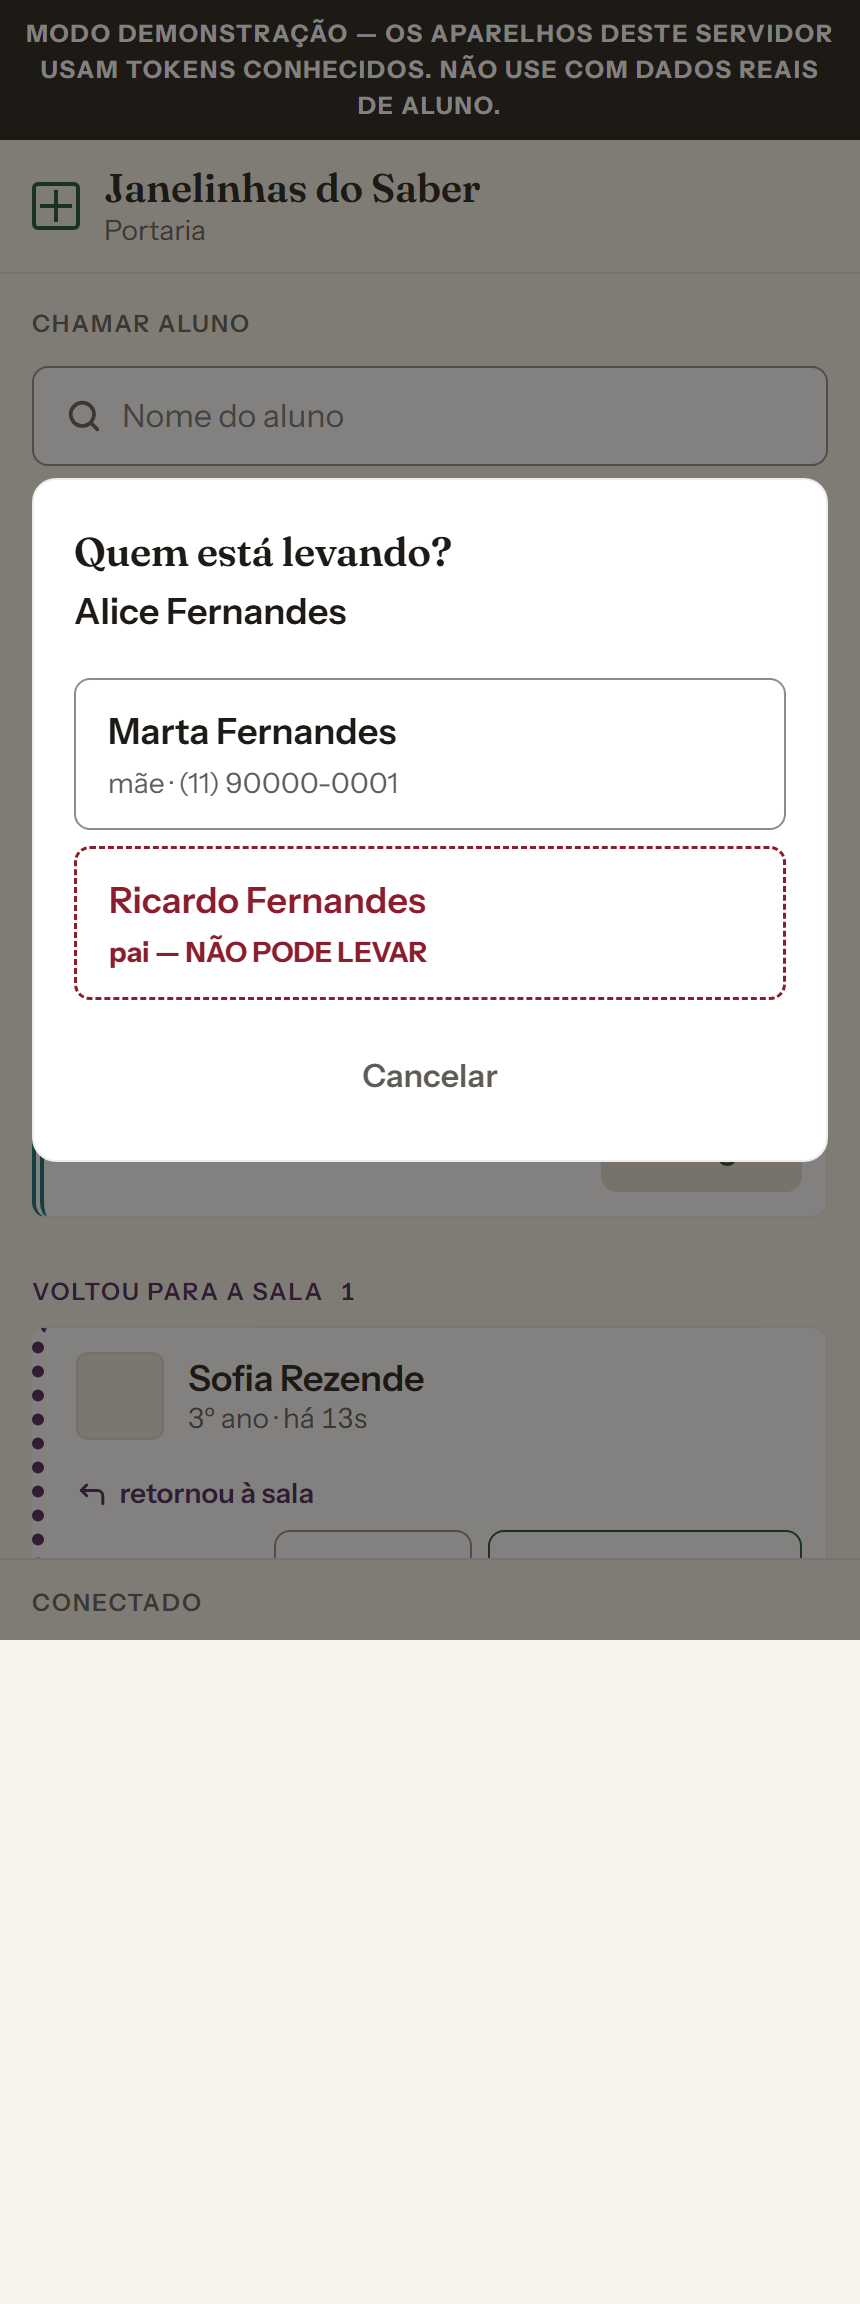
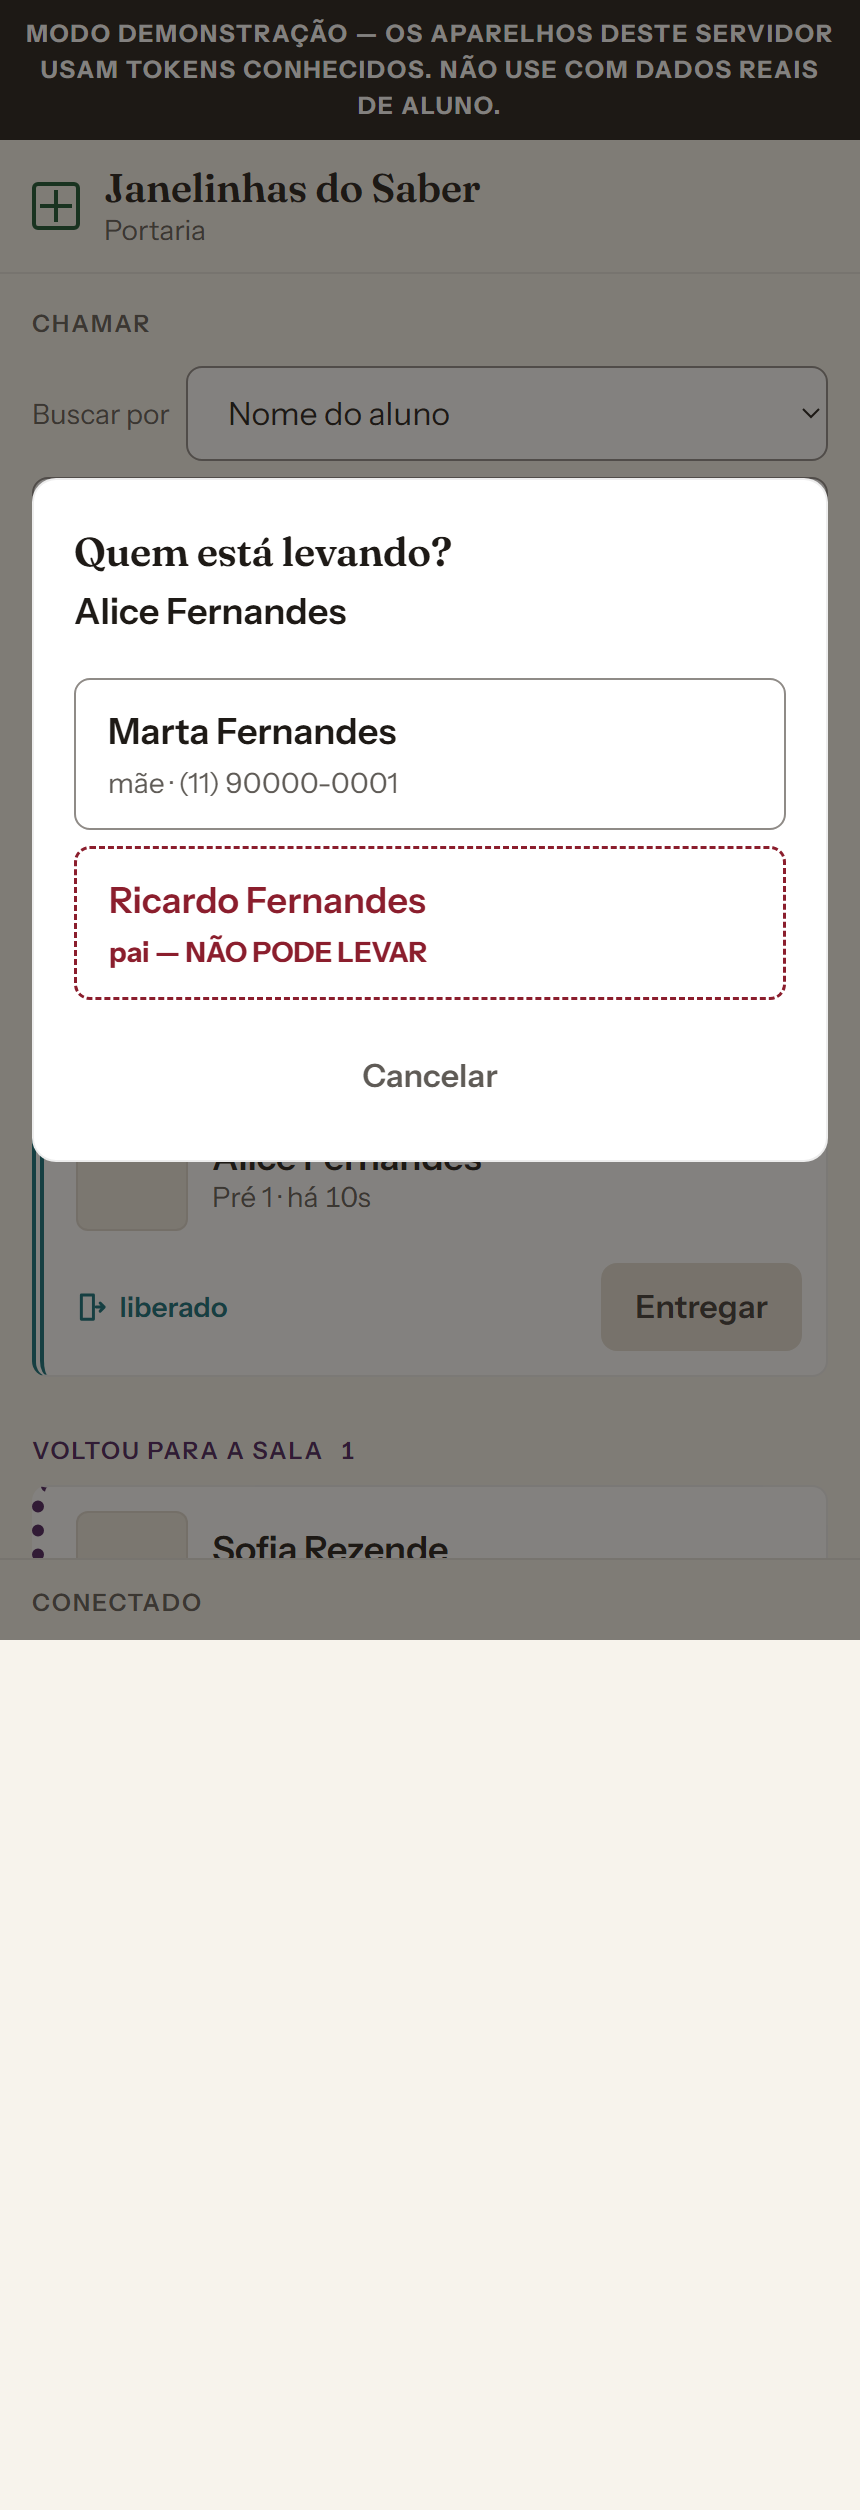
Retrato maior, e o cartao para de sobrar embaixo
O retrato era fixo em 112px: 33% do cartao no celular, 9% no notebook —
sumia justamente onde havia espaco de sobra. Agora cresce com a tela
(clamp), e a coluna de leitura acompanha em vez de ficar presa a 720px.

Medido, do retrato do painel: 390px -> 179, 768 -> 169, 1024 -> 200,
1280 -> 205, 1920 -> 264. Na linha da portaria, 44 -> 96.

E o cartao da sala tinha 117px de vazio SOB a foto contra 21 acima: a foto
ocupava so a primeira linha do grid, e a coluna da direita criava outra. O
retrato passa a atravessar as duas — cartao de 343px para 247px, folga
simetrica. `grid-row: 1 / -1` exige linhas EXPLICITAS; sem elas o span
degenera em silencio, e foi o que aconteceu na primeira tentativa.

Seis portoes verdes: 256 puros, 114 no workerd, typecheck limpo,
responsivo 45/45, telas, fim-a-fim, peso 85,4 de 120 KB.

Changed region(s): [[0.0, 0.0, 1.0, 0.7188], [0.907, 0.3438, 0.9372, 0.375], [0.0605, 0.3438, 0.0907, 0.375]]

diff --git a/web/comum/tokens.css b/web/comum/tokens.css
@@ -172,9 +172,20 @@
   /* 44px é o nível AAA (WCAG 2.5.5). Vale para TODO controle, não só botão. */
   --toque-min: 44px;
 
-  /* Retrato reservado e vazio. Mesma caixa que recebe a foto de matrícula. */
-  --retrato-linha: 44px;
-  --retrato-painel: 112px;
+  /*
+    Retrato reservado e vazio. Mesma caixa que recebe a foto de matrícula.
+
+    CRESCE COM A TELA, e por medida: fixo em 112px ele ocupava 33% do cartão no
+    celular e 9% no notebook — sumia justamente onde havia espaço de sobra, e o
+    rosto é o que a professora reconhece de longe, do fundo da sala.
+
+    `clamp` com piso e teto: o piso protege o celular (a foto não pode empurrar
+    o nome para fora), o teto impede que num projetor de 1920 a foto vire um
+    pôster e empurre a lista para baixo da dobra. Entre os dois, a foto
+    acompanha a largura sem nenhum ponto de quebra para manter.
+  */
+  --retrato-linha: clamp(56px, 5.5vw, 96px);
+  --retrato-painel: clamp(132px, 16vw, 264px);
 
   /* ---------- movimento ---------- */
 
@@ -584,6 +595,24 @@ summary {
 .painel .cartao .etiqueta { font-size: var(--t-estado-painel); }
 .painel .cartao > button { min-height: 56px; font-size: var(--t-nome); width: 100%; }
 
+/*
+  O retrato atravessa as tres linhas do grid.
+
+  Medido: o cartao tem 343px de altura (etiqueta + botao + "voltou para a
+  sala" empilhados na coluna 3) e o retrato so ocupava a linha 1. Sobrava um
+  vazio de 117px SOB a foto e 21px acima — desequilibrio visivel, e a foto
+  parecia colada no topo mesmo com align-items: center.
+*/
+@media (min-width: 901px) {
+  /*
+    As duas linhas precisam ser EXPLICITAS. Sem `grid-template-rows`, o grid
+    e todo implicito e `-1` resolve para a linha 1 — o span degenera e a foto
+    volta a ocupar so a primeira linha, silenciosamente.
+  */
+  .painel .cartao { grid-template-rows: auto auto; }
+  .painel .cartao .foto { grid-row: 1 / -1; align-self: center; }
+}
+
 /* Em painel estreito (tablet em pé) a coluna da direita desce para baixo do nome. */
 @media (max-width: 900px) {
   .painel .cartao { grid-template-columns: var(--retrato-painel) minmax(0, 1fr); }
@@ -595,14 +624,32 @@ summary {
 }
 
 /*
-  Em celular (320–480px) a coluna do nome ao lado do retrato de 112px fica com
-  menos de 100px: "Magalhães" em 44px mede 227px e vazava a página inteira.
-  Aqui o retrato sobe e o nome ocupa a largura toda. É mecanismo de caber, não
-  escolha de estilo — o tamanho volta ao do painel assim que houver espaço.
+  Em celular (320–480px) a coluna do nome ao lado do retrato fica com menos de
+  100px: "Magalhães" em 44px mede 227px e vazava a página inteira. Aqui o
+  retrato sobe e o nome ocupa a largura toda.
+
+  E, empilhado, o retrato PODE ser grande: sem ninguém ao lado disputando
+  largura, ele ocupa quase metade da tela do celular — é a foto que a
+  professora olha primeiro, e no celular ela está a um palmo do rosto.
 */
 @media (max-width: 480px) {
   .painel .cartao { grid-template-columns: minmax(0, 1fr); }
   .painel .cartao .nome { font-size: 2.25rem; }
+  .painel .cartao .foto {
+    width: min(46vw, 240px);
+    height: min(46vw, 240px);
+  }
+}
+
+/*
+  Tablet em pé e deitado (481–1100px) é o aparelho da sala no dia a dia. Aqui o
+  retrato ganha o tamanho que a tela permite sem espremer o nome ao lado.
+*/
+@media (min-width: 481px) and (max-width: 1100px) {
+  .painel .cartao .foto {
+    width: clamp(132px, 22vw, 200px);
+    height: clamp(132px, 22vw, 200px);
+  }
 }
 
 /* ---------- motivo do retorno (sala) ---------- */
@@ -846,7 +893,20 @@ button:focus-visible {
 
 /* ---------- estrutura ---------- */
 
-.conteudo { padding: var(--e-4); max-width: 560px; margin: 0 auto; }
+/*
+  A coluna da portaria acompanha a tela, com teto.
+
+  Eram 560px fixos: num notebook de 1280 sobrava metade da tela vazia, e num
+  projetor de 1920, dois terços. O teto existe porque linha de texto larga
+  demais cansa de ler — 860px é o limite confortável para nome e etiqueta —, e
+  o piso é a própria largura do celular.
+*/
+.conteudo {
+  padding: var(--e-4);
+  width: 100%;
+  max-width: clamp(560px, 68vw, 860px);
+  margin: 0 auto;
+}
 
 .secao {
   margin: var(--e-8) 0 var(--e-3);

diff --git a/web/demo-offline.html b/web/demo-offline.html
@@ -179,9 +179,20 @@
   /* 44px é o nível AAA (WCAG 2.5.5). Vale para TODO controle, não só botão. */
   --toque-min: 44px;
 
-  /* Retrato reservado e vazio. Mesma caixa que recebe a foto de matrícula. */
-  --retrato-linha: 44px;
-  --retrato-painel: 112px;
+  /*
+    Retrato reservado e vazio. Mesma caixa que recebe a foto de matrícula.
+
+    CRESCE COM A TELA, e por medida: fixo em 112px ele ocupava 33% do cartão no
+    celular e 9% no notebook — sumia justamente onde havia espaço de sobra, e o
+    rosto é o que a professora reconhece de longe, do fundo da sala.
+
+    `clamp` com piso e teto: o piso protege o celular (a foto não pode empurrar
+    o nome para fora), o teto impede que num projetor de 1920 a foto vire um
+    pôster e empurre a lista para baixo da dobra. Entre os dois, a foto
+    acompanha a largura sem nenhum ponto de quebra para manter.
+  */
+  --retrato-linha: clamp(56px, 5.5vw, 96px);
+  --retrato-painel: clamp(132px, 16vw, 264px);
 
   /* ---------- movimento ---------- */
 
@@ -591,6 +602,24 @@ summary {
 .painel .cartao .etiqueta { font-size: var(--t-estado-painel); }
 .painel .cartao > button { min-height: 56px; font-size: var(--t-nome); width: 100%; }
 
+/*
+  O retrato atravessa as tres linhas do grid.
+
+  Medido: o cartao tem 343px de altura (etiqueta + botao + "voltou para a
+  sala" empilhados na coluna 3) e o retrato so ocupava a linha 1. Sobrava um
+  vazio de 117px SOB a foto e 21px acima — desequilibrio visivel, e a foto
+  parecia colada no topo mesmo com align-items: center.
+*/
+@media (min-width: 901px) {
+  /*
+    As duas linhas precisam ser EXPLICITAS. Sem `grid-template-rows`, o grid
+    e todo implicito e `-1` resolve para a linha 1 — o span degenera e a foto
+    volta a ocupar so a primeira linha, silenciosamente.
+  */
+  .painel .cartao { grid-template-rows: auto auto; }
+  .painel .cartao .foto { grid-row: 1 / -1; align-self: center; }
+}
+
 /* Em painel estreito (tablet em pé) a coluna da direita desce para baixo do nome. */
 @media (max-width: 900px) {
   .painel .cartao { grid-template-columns: var(--retrato-painel) minmax(0, 1fr); }
@@ -602,14 +631,32 @@ summary {
 }
 
 /*
-  Em celular (320–480px) a coluna do nome ao lado do retrato de 112px fica com
-  menos de 100px: "Magalhães" em 44px mede 227px e vazava a página inteira.
-  Aqui o retrato sobe e o nome ocupa a largura toda. É mecanismo de caber, não
-  escolha de estilo — o tamanho volta ao do painel assim que houver espaço.
+  Em celular (320–480px) a coluna do nome ao lado do retrato fica com menos de
+  100px: "Magalhães" em 44px mede 227px e vazava a página inteira. Aqui o
+  retrato sobe e o nome ocupa a largura toda.
+
+  E, empilhado, o retrato PODE ser grande: sem ninguém ao lado disputando
+  largura, ele ocupa quase metade da tela do celular — é a foto que a
+  professora olha primeiro, e no celular ela está a um palmo do rosto.
 */
 @media (max-width: 480px) {
   .painel .cartao { grid-template-columns: minmax(0, 1fr); }
   .painel .cartao .nome { font-size: 2.25rem; }
+  .painel .cartao .foto {
+    width: min(46vw, 240px);
+    height: min(46vw, 240px);
+  }
+}
+
+/*
+  Tablet em pé e deitado (481–1100px) é o aparelho da sala no dia a dia. Aqui o
+  retrato ganha o tamanho que a tela permite sem espremer o nome ao lado.
+*/
+@media (min-width: 481px) and (max-width: 1100px) {
+  .painel .cartao .foto {
+    width: clamp(132px, 22vw, 200px);
+    height: clamp(132px, 22vw, 200px);
+  }
 }
 
 /* ---------- motivo do retorno (sala) ---------- */
@@ -853,7 +900,20 @@ button:focus-visible {
 
 /* ---------- estrutura ---------- */
 
-.conteudo { padding: var(--e-4); max-width: 560px; margin: 0 auto; }
+/*
+  A coluna da portaria acompanha a tela, com teto.
+
+  Eram 560px fixos: num notebook de 1280 sobrava metade da tela vazia, e num
+  projetor de 1920, dois terços. O teto existe porque linha de texto larga
+  demais cansa de ler — 860px é o limite confortável para nome e etiqueta —, e
+  o piso é a própria largura do celular.
+*/
+.conteudo {
+  padding: var(--e-4);
+  width: 100%;
+  max-width: clamp(560px, 68vw, 860px);
+  margin: 0 auto;
+}
 
 .secao {
   margin: var(--e-8) 0 var(--e-3);

diff --git a/web/sala/index.html b/web/sala/index.html
@@ -11,7 +11,12 @@
     .entrada p { color: var(--tinta-2); margin: 0 0 var(--e-6); font-size: var(--t-corpo); }
     .turma-do-aparelho { font-size: var(--t-nome); font-weight: 600; color: var(--tinta); margin: 0 0 var(--e-2); }
     /* O rodapé é fixo, então o palco termina acima dele. */
-    .palco { padding: var(--e-6) var(--e-6) 5rem; max-width: 1280px; margin: 0 auto; }
+    /*
+      O palco acompanha a tela até 1600px. Eram 1280 fixos, e num monitor de
+      1920 sobravam 640px de papel vazio dos dois lados enquanto o cartão —
+      que existe para ser lido do fundo da sala — ficava espremido no meio.
+    */
+    .palco { padding: var(--e-6) var(--e-6) 5rem; max-width: 1600px; margin: 0 auto; }
     .rodape {
       position: fixed; bottom: 0; left: 0; right: 0;
       padding: var(--e-3) var(--e-6); background: var(--papel);
